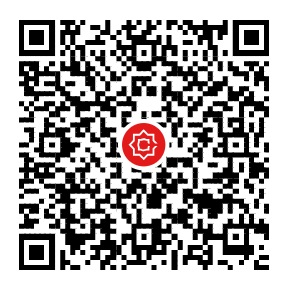
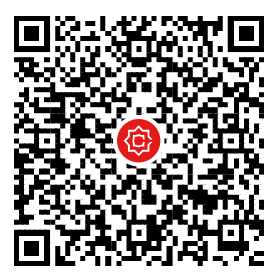
update qr, email and telegram

diff --git a/app/checkout/page.tsx b/app/checkout/page.tsx
@@ -164,7 +164,7 @@ export default function CheckoutPage() {
     doc.setTextColor(60);
     doc.text('Please send this receipt PDF to our Telegram support to receive', 18, instructionY + 16);
     doc.text('your unzip password/access key immediately.', 18, instructionY + 22);
-    doc.text('Telegram: @ebooksamnorng', 18, instructionY + 28); // Placeholder telegram
+    doc.text('Telegram: @SORIYA_VAUNG', 18, instructionY + 28); // Updated telegram
 
     // Footer
     doc.setFontSize(8);
@@ -288,7 +288,7 @@ export default function CheckoutPage() {
                                 {t('checkout.access_library')}
                               </a>
                               <a
-                                href={`https://t.me/ebooksamnorng?text=Hello, I just purchased: ${item.title} (ID: ${item.id}). Here is my receipt. Please provide the unzip password.`}
+                                href={`https://t.me/SORIYA_VAUNG?text=Hello, I just purchased: ${item.title} (ID: ${item.id}). Here is my receipt. Please provide the unzip password.`}
                                 target="_blank"
                                 rel="noopener noreferrer"
                                 className="w-full bg-[#0088cc] text-white py-3 rounded-md font-black text-sm flex items-center justify-center gap-2 hover:bg-[#0077b5] transition-all shadow-md active:scale-[0.98]"
@@ -436,7 +436,7 @@ export default function CheckoutPage() {
                           <div className="flex flex-col sm:flex-row sm:items-center gap-3 items-center">
                             <p className="text-lg font-black text-gray-900">VAUNG SOPHAL</p>
                             <a
-                              href="https://pay.ababank.com/oRF8/mox4etnp"
+                              href="https://pay.ababank.com/oRF8/4qgylds2"
                               target="_blank"
                               rel="noopener noreferrer"
                               className="inline-flex items-center gap-2 bg-[#005a8c] text-white px-4 py-2 rounded-lg text-[10px] font-black hover:bg-[#004b75] transition-all shadow-md active:scale-95"

diff --git a/components/footer.tsx b/components/footer.tsx
@@ -30,7 +30,7 @@ export default function Footer() {
           </h3>
           <ul className="space-y-4 text-[13px] sm:text-[14px] opacity-90">
             <li>
-              <Link href="/checkout" className="hover:text-yellow-400 transition-colors block">
+              <Link href="/payment-instruction" className="hover:text-yellow-400 transition-colors block">
                 {t('common.footer.payment_instr')}
               </Link>
             </li>
@@ -54,7 +54,7 @@ export default function Footer() {
             </div>
             <div>
               <p className="font-semibold">{t('common.footer.email_label')}</p>
-              <p>ebookbiino@gmail.com</p>
+              <p>ebooksomnorng@gmail.com</p>
             </div>
             <div className="pt-2 flex gap-4">
               <a
@@ -67,7 +67,7 @@ export default function Footer() {
                 <Facebook className="w-5 h-5" />
               </a>
               <a
-                href="https://t.me/yourusername" // Replace with actual telegram link if available
+                href="https://t.me/SORIYA_VAUNG" // Updated telegram link
                 target="_blank"
                 rel="noopener noreferrer"
                 className="w-10 h-10 flex items-center justify-center bg-[#0088cc] text-white rounded-full hover:bg-white hover:text-[#0088cc] transition-all transform hover:scale-110 shadow-lg"

diff --git a/components/header.tsx b/components/header.tsx
@@ -51,7 +51,7 @@ export function Header() {
               </a>
               <div className="w-[1px] h-3 bg-white/20"></div>
               <a
-                href="https://t.me/ebooksamnorng"
+                href="https://t.me/SORIYA_VAUNG"
                 target="_blank"
                 rel="noopener noreferrer"
                 className="hover:text-yellow-400 transition-colors flex items-center gap-1.5"
@@ -246,7 +246,7 @@ export function Header() {
               <a href="https://www.facebook.com" target="_blank" rel="noopener noreferrer" className="p-2 bg-secondary rounded-full text-foreground hover:bg-primary hover:text-white transition-colors">
                 <Facebook className="w-5 h-5" />
               </a>
-              <a href="https://t.me/ebooksamnorng" target="_blank" rel="noopener noreferrer" className="p-2 bg-secondary rounded-full text-foreground hover:bg-primary hover:text-white transition-colors">
+              <a href="https://t.me/SORIYA_VAUNG" target="_blank" rel="noopener noreferrer" className="p-2 bg-secondary rounded-full text-foreground hover:bg-primary hover:text-white transition-colors">
                 <Send className="w-5 h-5" />
               </a>
             </div>

diff --git a/app/product/[id]/page.tsx b/app/product/[id]/page.tsx
@@ -285,7 +285,7 @@ export default function ProductDetailPage({ params }: PageProps) {
                   <div className="space-y-2">
                     <p className="text-[11px] font-black text-[#222] uppercase tracking-wider">{t('product.account')}</p>
                     <a
-                      href="https://pay.ababank.com/oRF8/mox4etnp"
+                      href="https://pay.ababank.com/oRF8/4qgylds2"
                       target="_blank"
                       rel="noopener noreferrer"
                       className="inline-flex items-center gap-2 bg-[#005a8c] text-white px-5 py-2.5 rounded-full text-[11px] font-bold hover:bg-[#004b75] transition-all shadow-sm active:scale-95"

diff --git a/app/contact/page.tsx b/app/contact/page.tsx
@@ -76,8 +76,8 @@ export default function ContactPage() {
             </div>
             <h3 className="font-bold text-base text-foreground mb-2">{t('contact_page.email')}</h3>
             <p className="text-sm text-foreground break-all">
-              <a href="mailto:info@ebooksamnorng.com" className="hover:text-primary transition-colors">
-                info@ebooksamnorng.com
+              <a href="mailto:ebooksomnorng@gmail.com" className="hover:text-primary transition-colors">
+                ebooksomnorng@gmail.com
               </a>
             </p>
             <p className="text-xs text-muted-foreground mt-2">{t('contact_page.email_sub')}</p>
